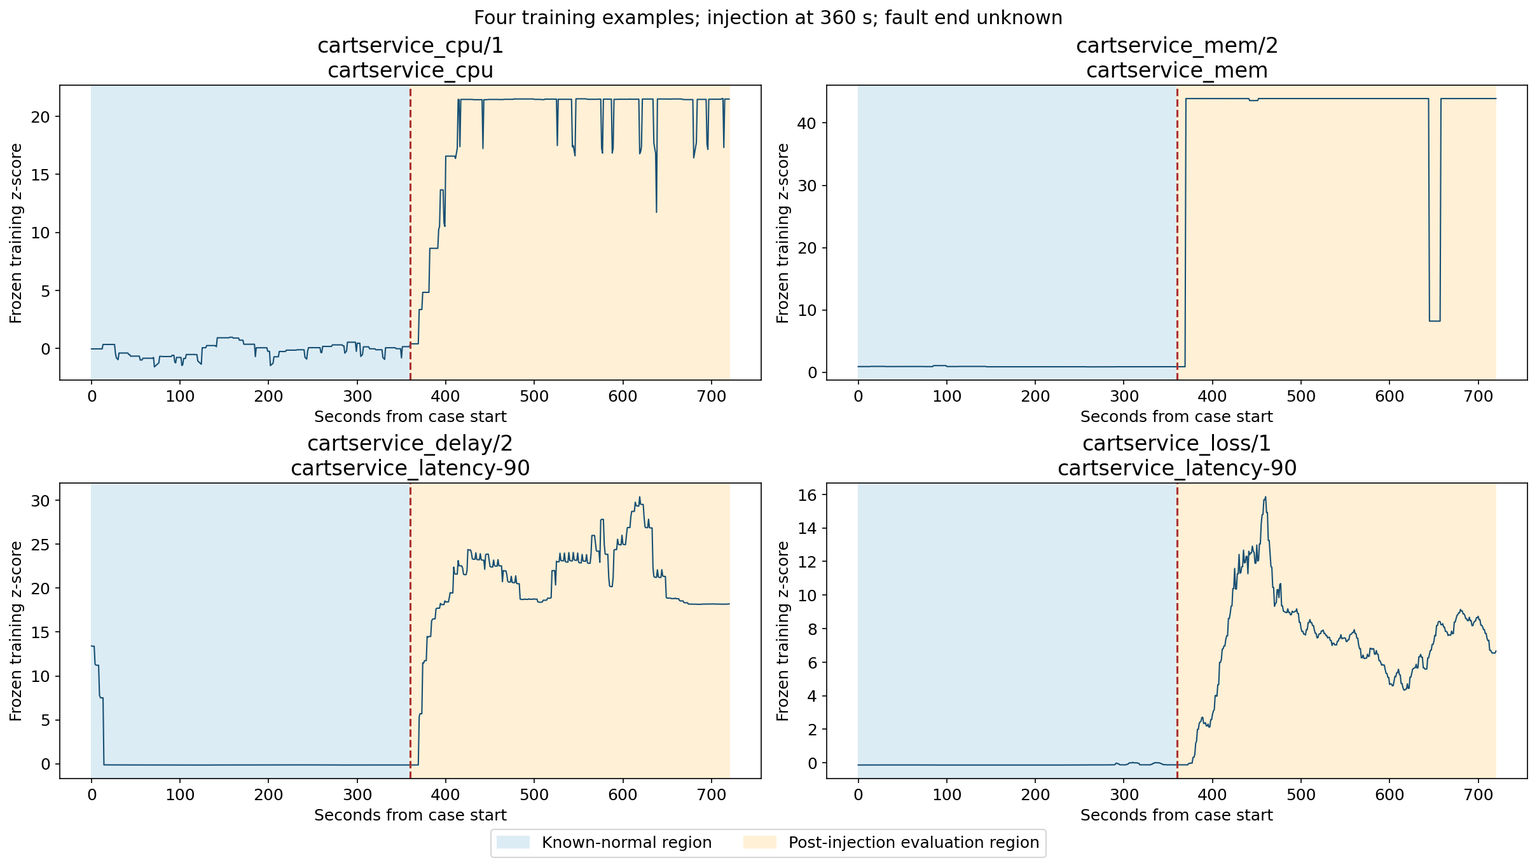
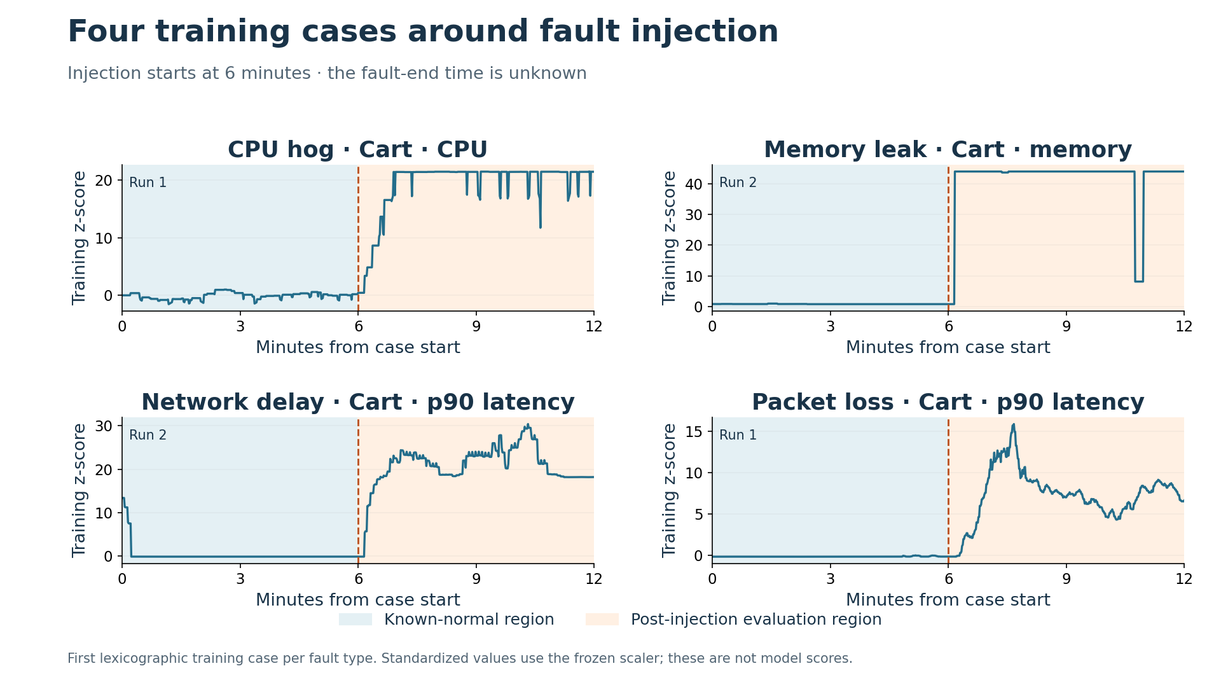
298-38: redesign EDA figures for readability without changing analysis

diff --git a/scripts/model1/eda/build_eda.py b/scripts/model1/eda/build_eda.py
@@ -9,6 +9,7 @@ import pandas as pd
 import matplotlib
 matplotlib.use('Agg')
 import matplotlib.pyplot as plt
+import plot_style as style
 
 ROOT = Path(__file__).resolve().parents[3]
 sys.path.insert(0, str(ROOT / 'scripts/model1/data'))
@@ -21,9 +22,9 @@ def build(data_dir, output):
     figs = docs / 'figures'
     for p in (tables, figs):
         p.mkdir(parents=True, exist_ok=True)
-    plt.rcParams.update({'font.size': 12, 'axes.titlesize': 16, 'figure.dpi': 120})
+    style.setup()
     def save(fig, name):
-        fig.savefig(figs / (name + '.png'), dpi=150, bbox_inches='tight', metadata={'Software': '298-38 EDA'})
+        fig.savefig(figs / (name + '.png'), dpi=150, metadata={'Software': '298-38 EDA'})
         plt.close(fig)
     def csv(frame, name, index=False):
         frame.to_csv(tables / (name + '.csv'), index=index, float_format='%.10g')
@@ -33,21 +34,20 @@ def build(data_dir, output):
     coverage = pd.crosstab(cases.service, cases.fault_type).reindex(columns=['cpu','mem','delay','loss'])
     assert coverage.shape == (5,4) and (coverage.values == 5).all()
     csv(coverage, 'coverage', True)
-    fig, ax = plt.subplots(figsize=(12,6))
-    ax.imshow(coverage, cmap='Blues', vmin=0, vmax=6, aspect='auto')
-    ax.set(xticks=range(4), xticklabels=['CPU hog','Memory leak','Network delay','Packet loss'], yticks=range(5), yticklabels=coverage.index, title='Dataset coverage: 20 combinations, 5 runs each')
-    for i in range(5):
-        for j in range(4): ax.text(j,i,'5 runs',ha='center',va='center',color='white',fontsize=16)
-    fig.tight_layout(); save(fig,'01_coverage')
+    save(style.coverage_figure(coverage), '01_coverage')
     mf = missing.groupby('column').n_missing.sum().sort_values()
     mc = missing.groupby('case').n_missing.sum().sort_values()
     assert int(mf.sum()) == 2630
     csv(mf.rename('missing_cells').reset_index(),'missing_by_feature')
     csv(mc.rename('missing_cells').reset_index(),'missing_by_case')
-    fig, axes = plt.subplots(1,2,figsize=(16,7), layout='constrained')
-    for ax, series, title in zip(axes,[mf,mc],['Missing cells by feature','Missing cells by case']):
-        ax.barh(series.index,series.values,color='#24678d'); ax.set_title(title); ax.set_xlabel('Raw missing cells (all 100 cases)'); ax.tick_params(axis='y',labelsize=10)
-    save(fig,'02_missingness')
+    save(style.bars(mf, 'Missing values are concentrated in a few features',
+        '2,630 missing cells across the 100 inspected cases',
+        'Top four features shown individually; all remaining features are combined. Source: committed inspection outputs.',
+        labels=style.feature_label, top=4, remainder=True), '02_missingness')
+    save(style.bars(mc, 'Six cases contain the recorded missing values',
+        'Raw missing cells by case · all 100 cases inspected',
+        'Cases with zero missing cells are omitted. A missing value differs from an absent schema column.',
+        labels=style.case_label), '02b_missingness_cases')
     features, scaler = load_features(), load_scaler()
     train = sorted(load_manifest('train'))
     forbidden = set(load_manifest('val') + load_manifest('test'))
@@ -73,28 +73,20 @@ def build(data_dir, output):
     # Fixed semantic CPU/memory/latency examples; one train-only constant-behavior example.
     representative=['cartservice_cpu','cartservice_mem','cartservice_latency-90','frontend_cpu','frontend_mem']
     representative += [next(f for f in stats.sort_values('train_cases_constant',ascending=False,kind='stable').index if f not in representative)]
-    fig,axes=plt.subplots(2,3,figsize=(16,9),layout='constrained')
-    for ax,f in zip(axes.flat,representative):
-        v=raw[f].dropna(); ax.hist(v,bins=45,color='#24678d'); ax.set_title(f,fontsize=13); ax.set_ylabel('Rows (log count)'); ax.set_xlabel('Raw artifact units'); ax.set_yscale('log')
-        ax.text(.97,.95,f"skew={stats.loc[f,'skew']:.2f}\nconstant in {int(stats.loc[f,'train_cases_constant'])}/60 cases",transform=ax.transAxes,ha='right',va='top',fontsize=10)
-    fig.suptitle('Representative distributions: training known-normal rows only'); save(fig,'03_distributions')
+    save(style.distributions(raw,stats,representative[:3], 'Cart CPU, memory and latency have different distributions'), '03_distributions')
+    save(style.distributions(raw,stats,representative[3:], 'Additional distributions show variability and constant behavior'), '03b_distributions_additional')
     corr=pd.DataFrame(z,columns=features).corr()
     csv(corr,'correlations',True)
     pairs=pd.DataFrame([{'feature_a':features[i],'feature_b':features[j],'pearson_r':corr.iloc[i,j]} for i in range(55) for j in range(i+1,55)]).dropna()
     pairs['absolute_r']=pairs.pearson_r.abs(); pairs=pairs.sort_values('absolute_r',ascending=False,kind='stable')
     csv(pairs,'correlation_pairs')
-    # Slide-readable top correlated pairs, with full 55x55 matrix versioned in CSV.
-    fig,ax=plt.subplots(figsize=(14,8),layout='constrained')
-    top=pairs.head(12).iloc[::-1]
-    ax.barh(top.feature_a+' / '+top.feature_b,top.pearson_r,color='#24678d')
-    ax.set(xlim=(-1,1),xlabel='Pearson correlation',title='Strongest telemetry pairs: training known-normal data')
-    ax.tick_params(axis='y',labelsize=10); save(fig,'04_correlations')
-    fig,ax=plt.subplots(figsize=(14,12),layout='constrained')
+    save(style.correlations(pairs), '04_correlations')
+    fig,ax=plt.subplots(figsize=(16,14),layout='constrained')
     im=ax.imshow(corr,vmin=-1,vmax=1,cmap='RdBu_r')
-    ax.set(xticks=range(55),yticks=range(55),xticklabels=features,yticklabels=features,title='All 55 Model 1 features: training known-normal correlations')
+    ax.set(xticks=range(55),yticks=range(55),xticklabels=features,yticklabels=features,title='Appendix: all 55 training known-normal feature correlations')
     ax.tick_params(labelsize=6); plt.setp(ax.get_xticklabels(),rotation=90); fig.colorbar(im,ax=ax,shrink=.65); save(fig,'04b_full_correlation_matrix')
     timelines=[]
-    fig,axes=plt.subplots(2,2,figsize=(16,9),layout='constrained')
+    fig,axes=style.timelines_figure()
     for ax,fault in zip(axes.flat,['cpu','mem','delay','loss']):
         cid=next(c for c in train if c.split('/')[0].endswith('_'+fault))
         df,inj=loaded[cid]; scaled,_=apply_scaler(df,features,scaler)
@@ -102,23 +94,25 @@ def build(data_dir, output):
         metric=service+({'cpu':'_cpu','mem':'_mem','delay':'_latency-90','loss':'_latency-90'}[fault])
         values=scaled[:,features.index(metric)]
         t=df.time-df.time.iloc[0]
-        ax.axvspan(0,360,color='#dcecf5',label='Known-normal region')
-        ax.axvspan(360,720,color='#fff0d6',label='Post-injection evaluation region')
-        ax.plot(t,values,color='#174f73',lw=1); ax.axvline(360,color='#ad3333',ls='--')
-        ax.set(title=cid+'\n'+metric,xlabel='Seconds from case start',ylabel='Frozen training z-score')
+        style.timeline(ax,t,values,fault,cid,metric)
         timelines.append({'case_id':cid,'feature':metric,'selection':'first lexicographic training case per fault type','pre_median_z':float(np.median(values[t<360])),'post_median_z':float(np.median(values[t>=360])),'post_max_abs_z':float(abs(values[t>=360]).max())})
-    handles,labels=axes[0,0].get_legend_handles_labels(); fig.legend(handles,labels,loc='outside lower center',ncol=2)
-    fig.suptitle('Four training examples; injection at 360 s; fault end unknown'); save(fig,'05_injection_timelines'); csv(pd.DataFrame(timelines),'timeline_summary')
+    from matplotlib.patches import Patch
+    fig.legend(handles=[Patch(color='#e4f0f4',label='Known-normal region'),Patch(color='#fff0e3',label='Post-injection evaluation region')],
+               loc='lower center',bbox_to_anchor=(.5,.065),ncol=2,frameon=False,fontsize=12)
+    save(fig,'05_injection_timelines'); csv(pd.DataFrame(timelines),'timeline_summary')
     extreme=(abs(z)>5)
     counts=pd.Series(extreme.sum(axis=0),index=features).sort_values(ascending=False,kind='stable')
     csv(counts.rename('extreme_cells').rename_axis('feature').reset_index(),'extremes_by_feature')
     ec=pd.DataFrame(case_extremes); csv(ec,'extremes_by_case')
     group=ec.groupby('target_service').extreme_cells.sum().sort_values()
-    fig,axes=plt.subplots(1,2,figsize=(16,7),layout='constrained')
-    top=counts.head(12).iloc[::-1]; axes[0].barh(top.index,top,color='#24678d'); axes[0].set_title('Features contributing most extreme cells'); axes[0].tick_params(axis='y',labelsize=10)
-    axes[1].barh(group.index,group,color='#24678d'); axes[1].set_title('Concentration by targeted-service case group')
-    for ax in axes: ax.set_xlabel('Cells with |z| > 5 (descriptive only)')
-    fig.suptitle('Training known-normal variability; no records removed'); save(fig,'06_extreme_values')
+    save(style.bars(counts, 'Which features contribute the most extreme values?',
+        f'{int(extreme.sum()):,} cells exceed |z| > 5 in training known-normal data',
+        f'Top six features shown; remaining features account for {int(counts.iloc[6:].sum()):,} cells. Descriptive cutoff; no records removed.',
+        labels=style.feature_label, xlabel='Cells with |z| > 5', top=6, remainder=False), '06_extreme_values')
+    save(style.bars(group, 'Extreme values vary across targeted-service case groups',
+        f'{100*extreme.any(axis=1).mean():.2f}% of known-normal training rows contain at least one extreme cell',
+        'Each group contains 12 training cases. Counts include all 55 features, not only metrics of the targeted service.',
+        labels=lambda x: style.SERVICES.get(x,x), xlabel='Cells with |z| > 5'), '06b_extremes_by_service')
     low=corr.abs().where(~np.eye(55,dtype=bool)).mean().sort_values()
     csv(low.rename('mean_absolute_correlation').rename_axis('feature').reset_index(),'low_correlation_signals')
     for relative,digest in hashes.items(): assert hashlib.sha256((data_dir/relative).read_bytes()).hexdigest()==digest
@@ -128,15 +122,15 @@ def build(data_dir, output):
     '## Coverage and missingness','',
     '![Coverage](figures/01_coverage.png)','',
     '100 cases cover 5 target services and 4 fault types, with 5 runs per combination. See coverage.csv. These structural counts reuse the committed inspection artifacts.','',
-    '![Missingness](figures/02_missingness.png)','',
+    '![Missingness](figures/02_missingness.png)','', '![Missingness by case](figures/02b_missingness_cases.png)','',
     f'Exactly {int(mf.sum()):,} raw missing cells are concentrated most in {mf.idxmax()} ({int(mf.max()):,} cells). See missing_by_feature.csv and missing_by_case.csv. Missing cells are distinct from columns absent from a case schema; Model 1 keeps its existing 55 common features.','',
-    '## Distributions','', '![Distributions](figures/03_distributions.png)','',
+    '## Distributions','', '![Distributions](figures/03_distributions.png)','', '![Additional distributions](figures/03b_distributions_additional.png)','',
     'Raw units and axis ranges differ across CPU, memory and latency signals. Log count axes retain rare tails. The final example is selected by the most training cases with constant behavior; the other examples are fixed semantic CPU/memory/latency choices. Constant within a case does not mean constant across the pooled dataset. feature_statistics.csv records quantiles, skew and constant-case counts for every feature. No missing values are filled for these raw histograms.','',
     '## Correlations','', '![Correlations](figures/04_correlations.png)','',
     f"Strongest pair: {pairs.iloc[0].feature_a} / {pairs.iloc[0].feature_b}, r={pairs.iloc[0].pearson_r:.4f}. Lowest mean absolute correlation: {low.index[0]} ({low.iloc[0]:.4f}). The full matrix is in correlations.csv and figures/04b_full_correlation_matrix.png. Large correlations suggest shared variation, not proven redundancy or causality. No features are removed. Correlations use the existing imputation/scaling function on training known-normal rows only.",'',
     '## Fault injection examples','', '![Timelines](figures/05_injection_timelines.png)','',
     'Examples are selected before examining behavior: the first lexicographic training case for each fault type. CPU uses targeted-service CPU, memory uses memory, and delay/loss use latency-90 as an observable response, not a direct fault label. timeline_summary.csv quantifies each example; these four cases do not establish general fault-type effects. Shading after 360 s means post-injection evaluation region, not confirmed active fault duration.','',
-    '## Extreme standardized values','', '![Extremes](figures/06_extreme_values.png)','',
+    '## Extreme standardized values','', '![Extremes](figures/06_extreme_values.png)','', '![Extremes by service group](figures/06b_extremes_by_service.png)','',
     f'{int(extreme.sum()):,} of {extreme.size:,} training known-normal cells exceed |z| > 5 ({100*extreme.mean():.3f}%), affecting {100*extreme.any(axis=1).mean():.2f}% of rows. Largest feature contributor: {counts.index[0]} ({int(counts.iloc[0])} cells). Largest targeted-service group: {group.idxmax()} ({int(group.max())} cells). See extremes_by_feature.csv and extremes_by_case.csv. This reuses the demo’s descriptive cutoff, not a model threshold; no records are removed.','',
     '## Boundaries','',
     'All detailed EDA uses only the 60 training cases. Validation/test raw files and model performance are not read. Correlations, distributions and outlier analysis use the 21,600 known-normal training rows; timelines alone show full selected training cases. Raw-file hashes are verified unchanged before/after. There is no verified fault-end timestamp, and results are descriptive rather than evidence of model performance.','']

diff --git a/scripts/model1/eda/plot_style.py b/scripts/model1/eda/plot_style.py
@@ -1,0 +1,131 @@
+"""Readable figures for the existing 298-38 EDA calculations."""
+import numpy as np
+import matplotlib.pyplot as plt
+from matplotlib.ticker import MaxNLocator
+
+BLUE = '#236d8b'
+ORANGE = '#bc5627'
+INK = '#193348'
+SERVICES = {'cartservice':'Cart', 'checkoutservice':'Checkout', 'currencyservice':'Currency',
+            'paymentservice':'Payment', 'productcatalogservice':'Product catalog',
+            'frontend':'Frontend', 'adservice':'Ad', 'emailservice':'Email',
+            'recommendationservice':'Recommendation', 'shippingservice':'Shipping',
+            'redis':'Redis', 'istio-init':'Istio init'}
+FAULTS = {'cpu':'CPU hog', 'mem':'Memory leak', 'delay':'Network delay', 'loss':'Packet loss'}
+
+
+def feature_label(value):
+    service, metric = value.rsplit('_', 1)
+    return SERVICES.get(service, service) + ' · ' + {'cpu':'CPU', 'mem':'memory',
+        'latency-90':'p90 latency', 'latency-50':'p50 latency', 'error':'errors',
+        'workload':'workload'}.get(metric, metric)
+
+
+def case_label(value):
+    combo, run = value.split('/')
+    service, fault = combo.rsplit('_', 1)
+    return f'{SERVICES.get(service,service)} · {FAULTS[fault]} · run {run}'
+
+
+def setup():
+    plt.rcParams.update({'font.family':'DejaVu Sans', 'font.size':14, 'axes.titlesize':17,
+        'axes.labelsize':13, 'text.color':INK, 'axes.labelcolor':INK,
+        'axes.spines.top':False, 'axes.spines.right':False, 'figure.facecolor':'white',
+        'savefig.facecolor':'white', 'axes.titleweight':'bold'})
+
+
+def page(title, subtitle, footnote, size=(12.8,7.2)):
+    fig = plt.figure(figsize=size)
+    fig.text(.055,.94,title,fontsize=23,weight='bold')
+    fig.text(.055,.885,subtitle,fontsize=13,color='#526574')
+    fig.text(.055,.035,footnote,fontsize=10,color='#526574')
+    return fig
+
+
+def bars(series, title, subtitle, footnote, labels=None, xlabel='Missing cells', top=None, remainder=False):
+    values = series.sort_values(ascending=False, kind='stable')
+    if top and len(values)>top:
+        rest=values.iloc[top:].sum()
+        values=values.iloc[:top].copy()
+        if remainder: values.loc['Other features']=rest
+    labels = [labels(v) if labels and v!='Other features' else v for v in values.index]
+    fig=page(title,subtitle,footnote)
+    ax=fig.add_axes([.32,.19,.60,.60])
+    ax.barh(range(len(values)),values,color=[BLUE]+['#70a6bb']*(len(values)-1),height=.58)
+    ax.set_yticks(range(len(values)),labels=labels)
+    ax.invert_yaxis(); ax.set_xlabel(xlabel); ax.set_xlim(0,max(values)*1.20)
+    ax.spines[['left','bottom']].set_visible(False)
+    ax.tick_params(axis='y',length=0,pad=10); ax.xaxis.set_major_locator(MaxNLocator(5,integer=True))
+    ax.grid(axis='x',alpha=.12); ax.set_axisbelow(True)
+    for i,value in enumerate(values): ax.text(value+max(values)*.02,i,f'{int(value):,}',va='center',fontsize=15,weight='bold')
+    return fig
+
+
+def coverage_figure(coverage):
+    fig=page('100 cases cover every service–fault combination',
+        '5 target services × 4 fault types × 5 runs',
+        'Source: committed inspection outputs for all 100 cases. Each cell reports the number of runs.')
+    ax=fig.add_axes([.25,.17,.69,.63])
+    ax.imshow(coverage,cmap='Blues',vmin=0,vmax=7,aspect='auto')
+    ax.set(xticks=range(4),xticklabels=[FAULTS[f] for f in coverage.columns],
+           yticks=range(5),yticklabels=[SERVICES[s] for s in coverage.index])
+    ax.tick_params(length=0,pad=14)
+    ax.set_xticks(np.arange(-.5,4,1),minor=True); ax.set_yticks(np.arange(-.5,5,1),minor=True)
+    ax.grid(which='minor',color='white',linewidth=4); ax.tick_params(which='minor',length=0)
+    for i in range(5):
+        for j in range(4): ax.text(j,i,'5 runs',ha='center',va='center',fontsize=20,color='white',weight='bold')
+    for spine in ax.spines.values(): spine.set_visible(False)
+    return fig
+
+
+def distributions(raw, stats, selected, title):
+    fig=page(title,'Training known-normal data only · raw values, with no imputation',
+        'Logarithmic row counts retain rare tails. Raw units and horizontal scales differ between metrics. Missing values excluded.')
+    axes=fig.subplots(1,3)
+    fig.subplots_adjust(left=.075,right=.97,bottom=.25,top=.72,wspace=.32)
+    for ax,f in zip(axes,selected):
+        ax.hist(raw[f].dropna(),bins=45,color=BLUE,alpha=.92)
+        ax.set_title(feature_label(f),fontsize=16,pad=14)
+        ax.set_yscale('log'); ax.set_xlabel('Raw artifact units'); ax.xaxis.set_major_locator(MaxNLocator(4))
+        ax.tick_params(labelsize=11); ax.grid(axis='y',alpha=.12)
+        ax.text(.0,-.33,f"Skew: {stats.loc[f,'skew']:.2f}\nConstant within {int(stats.loc[f,'train_cases_constant'])} of 60 cases",
+                transform=ax.transAxes,fontsize=12,linespacing=1.5)
+    axes[0].set_ylabel('Rows (log scale)')
+    return fig
+
+
+def correlations(pairs):
+    top=pairs.head(6)
+    fig=page('Six strongest feature correlations',
+        'Pearson correlation across 21,600 training known-normal rows',
+        'Ranked by absolute correlation across all 55 features. Shared variation does not establish causality or justify removal.')
+    ax=fig.add_axes([.45,.18,.47,.63])
+    labels=[feature_label(r.feature_a)+'\n'+feature_label(r.feature_b) for r in top.itertuples()]
+    for i,r in enumerate(top.pearson_r):
+        ax.plot([0,r],[i,i],color='#bdd5df',lw=5)
+        ax.scatter([r],[i],s=90,color=BLUE,zorder=3)
+        ax.text(r+.03,i,f'{r:.4f}',va='center',fontsize=13,weight='bold')
+    ax.set(yticks=range(6),yticklabels=labels,xlim=(-1,1.3),ylim=(5.6,-.6),xlabel='Pearson r')
+    ax.set_xticks([-1,-.5,0,.5,1]); ax.tick_params(axis='y',length=0,pad=15,labelsize=12)
+    ax.spines['left'].set_visible(False); ax.grid(axis='x',alpha=.12)
+    return fig
+
+
+def timelines_figure():
+    fig=page('Four training cases around fault injection',
+        'Injection starts at 6 minutes · the fault-end time is unknown',
+        'First lexicographic training case per fault type. Standardized values use the frozen scaler; these are not model scores.')
+    axes=fig.subplots(2,2)
+    fig.subplots_adjust(left=.10,right=.97,bottom=.18,top=.76,hspace=.73,wspace=.25)
+    return fig,axes
+
+
+def timeline(ax,t,values,fault,cid,metric):
+    ax.axvspan(0,6,color='#e4f0f4'); ax.axvspan(6,12,color='#fff0e3')
+    ax.plot(t/60,values,color=BLUE,lw=1.6)
+    ax.axvline(6,color=ORANGE,ls='--',lw=1.4)
+    ax.set(title=FAULTS[fault]+' · '+feature_label(metric),xlabel='Minutes from case start',
+           ylabel='Training z-score',xlim=(0,12))
+    ax.set_xticks([0,3,6,9,12]); ax.tick_params(labelsize=11)
+    ax.text(.015,.92,'Run '+cid.split('/')[1],transform=ax.transAxes,fontsize=10,va='top')
+    ax.grid(axis='y',alpha=.12)

diff --git a/docs/model1/eda/README.md b/docs/model1/eda/README.md
@@ -27,23 +27,27 @@ python scripts/model1/eda/build_eda.py --data-dir /absolute/path/to/fse-ob --out
 
 The script reads the committed train/val/test manifests to assert separation, but opens telemetry only for the 60 training cases. All-case coverage and missingness come from committed inspection CSVs. Distribution statistics, correlations and extreme values use only times strictly before injection: 360 rows per training case, 21,600 total. Only the four explicitly selected training timelines include post-injection observations. Existing `dataset.apply_scaler` supplies the frozen training-mean imputation and scaling for correlation, timeline and extreme-value calculations; raw distributions omit missing observations.
 
+## Figure design
+
+The nine main figures use a consistent 1920 × 1080 layout, descriptive titles, plain service labels, and larger text. Missingness, distributions, and extreme-value views are split into separate figures to avoid crowded panels. The correlation summary displays the six strongest pairs with direct values; the complete 55-feature matrix remains a separate technical appendix. Full feature names and all values remain in the CSVs. Plotting helpers are in `scripts/model1/eda/plot_style.py`.
+
 ## Artifact index
 
 | Evidence | Figure | Machine-readable output |
 |---|---|---|
 | 5 services × 4 faults × 5 runs | [Coverage](figures/01_coverage.png) | [coverage.csv](../../../data/model1/eda/coverage.csv) |
-| Raw missingness across 100 cases | [Missingness](figures/02_missingness.png) | [By feature](../../../data/model1/eda/missing_by_feature.csv), [by case](../../../data/model1/eda/missing_by_case.csv) |
-| CPU, memory, latency, tails and constants | [Distributions](figures/03_distributions.png) | [All-feature statistics](../../../data/model1/eda/feature_statistics.csv) |
+| Raw missingness across 100 cases | [By feature](figures/02_missingness.png), [by case](figures/02b_missingness_cases.png) | [By feature](../../../data/model1/eda/missing_by_feature.csv), [by case](../../../data/model1/eda/missing_by_case.csv) |
+| CPU, memory, latency, tails and constants | [Cart distributions](figures/03_distributions.png), [additional distributions](figures/03b_distributions_additional.png) | [All-feature statistics](../../../data/model1/eda/feature_statistics.csv) |
 | All 55 common features | [Strongest pairs](figures/04_correlations.png), [full matrix](figures/04b_full_correlation_matrix.png) | [Matrix](../../../data/model1/eda/correlations.csv), [pairs](../../../data/model1/eda/correlation_pairs.csv), [low-correlation signals](../../../data/model1/eda/low_correlation_signals.csv) |
 | CPU/memory/delay/loss training examples | [Timelines](figures/05_injection_timelines.png) | [Timeline summary](../../../data/model1/eda/timeline_summary.csv) |
-| Descriptive frozen-scaler extreme values | [Extremes](figures/06_extreme_values.png) | [By feature](../../../data/model1/eda/extremes_by_feature.csv), [by case](../../../data/model1/eda/extremes_by_case.csv) |
+| Descriptive frozen-scaler extreme values | [By feature](figures/06_extreme_values.png), [by service group](figures/06b_extremes_by_service.png) | [By feature](../../../data/model1/eda/extremes_by_feature.csv), [by case](../../../data/model1/eda/extremes_by_case.csv) |
 
 ## Verification
 
-- Re-ran with only the 60 training case directories present: no validation or test raw telemetry was available. All 19 generated files matched the original run byte for byte.
+- Re-ran with only the 60 training case directories present: no validation or test raw telemetry was available. All 22 generated files matched the original run byte for byte.
 - Confirmed 100 structurally covered cases, 2,630 missing cells, 21,600 known-normal training rows and 55 features.
 - Reproduced the existing demo's 2,596 cells with `|z| > 5`; these affect 4.51% of known-normal training rows. This is a descriptive cutoff, not the model's anomaly threshold.
 - Checked SHA256 hashes before/after processing: every input file read remained unchanged.
-- Inspected all seven figures, including the fully labeled correlation appendix. The top-pairs figure is the more readable presentation view.
+- Inspected all ten figures, including the fully labeled correlation appendix. The top-pairs figure is the more readable presentation view.
 
 No scaler, features, preprocessing, splits, seed, model, threshold, labels, or evaluation artifacts are changed. No training or evaluation is run. The 360-second boundary marks injection; a fault-end timestamp is not available. Pooled correlations are associations, and the four training examples do not establish general fault effects. Review and merge of the linked PR are required before the Linear issue is Done.

diff --git a/docs/model1/eda/findings.md b/docs/model1/eda/findings.md
@@ -8,11 +8,15 @@
 
 ![Missingness](figures/02_missingness.png)
 
+![Missingness by case](figures/02b_missingness_cases.png)
+
 Exactly 2,630 raw missing cells are concentrated most in istio-init_mem (1,137 cells). See [missing_by_feature.csv](../../../data/model1/eda/missing_by_feature.csv) and [missing_by_case.csv](../../../data/model1/eda/missing_by_case.csv). Missing cells are distinct from columns absent from a case schema; Model 1 keeps its existing 55 common features.
 
 ## Distributions
 
 ![Distributions](figures/03_distributions.png)
+
+![Additional distributions](figures/03b_distributions_additional.png)
 
 Raw units and axis ranges differ across CPU, memory and latency signals. Log count axes retain rare tails. The final example is selected by the most training cases with constant behavior; the other examples are fixed semantic CPU/memory/latency choices. Constant within a case does not mean constant across the pooled dataset. [feature_statistics.csv](../../../data/model1/eda/feature_statistics.csv) records quantiles, skew and constant-case counts for every feature. No missing values are filled for these raw histograms.
 
@@ -31,6 +35,8 @@ Examples are selected before examining behavior: the first lexicographic trainin
 ## Extreme standardized values
 
 ![Extremes](figures/06_extreme_values.png)
+
+![Extremes by service group](figures/06b_extremes_by_service.png)
 
 2,596 of 1,188,000 training known-normal cells exceed |z| > 5 (0.219%), affecting 4.51% of rows. Largest feature contributor: adservice_mem (250 cells). Largest targeted-service group: cartservice (1395 cells). See [extremes_by_feature.csv](../../../data/model1/eda/extremes_by_feature.csv) and [extremes_by_case.csv](../../../data/model1/eda/extremes_by_case.csv). This reuses the demo’s descriptive cutoff, not a model threshold; no records are removed.
 
